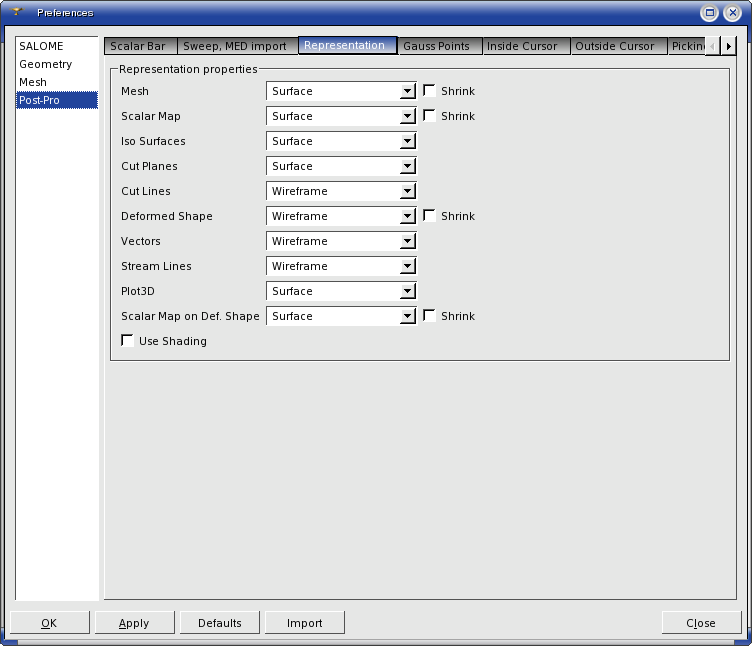
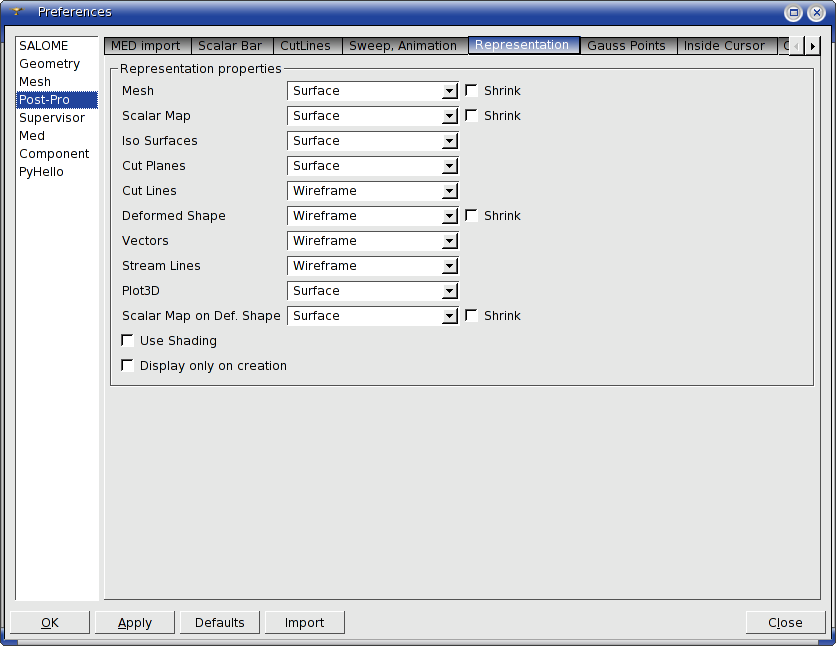
Update documentation for Post-Pro preferences.

diff --git a/doc/salome/gui/GUI/post-pro_preferences.htm b/doc/salome/gui/GUI/post-pro_preferences.htm
@@ -48,7 +48,7 @@
 
 <p>&nbsp;</p>
 
-<p><img src="Pics/ppref1.png"
+<p><img src="pics/ppref1.png"
 		x-maintain-ratio=TRUE
 		style="border: none;
 				width: 752px;
@@ -109,7 +109,7 @@
 
 <p>&nbsp;</p>
 
-<p><img src="Pics/pref31.png"
+<p><img src="pics/pref31.png"
 		x-maintain-ratio=TRUE
 		style="border: none;
 				border-style: none;
@@ -201,7 +201,7 @@
 
 <p style="font-weight: bold;">&nbsp;</p>
 
-<p style="font-weight: bold;"><img src="Pics/ppref2.png"
+<p style="font-weight: bold;"><img src="pics/ppref2.png"
 									x-maintain-ratio=TRUE
 									style="border: none;
 											width: 752px;
@@ -254,7 +254,7 @@
 
 <p style="font-weight: bold;">&nbsp;</p>
 
-<p style="font-weight: normal;"><img src="Pics/ppref3.png"
+<p style="font-weight: normal;"><img src="pics/ppref3.png"
 									x-maintain-ratio=TRUE
 									style="border: none;
 											width: 752px;
@@ -336,16 +336,15 @@
 
 <p style="margin-left: 0px; font-weight: bold;">&nbsp;</p>
 
-<p style="font-weight: bold; margin-left: 0px;"><img src="Pics/pref33.png"
-													x-maintain-ratio=TRUE
-													style="border: none;
-															width: 752px;
-															height: 646px;
-															float: none;
-															border-style: none;"
-													width=752
-													height=646
-													border=0></p>
+<p style="font-weight: bold; margin-left: 0px;"><img src="pics/pref33.png" x-maintain-ratio=TRUE
+						style="border: none;
+						width: 836px;
+						height: 646px;
+						float: none;
+						border-style: none;"
+						width=836
+						height=646
+						border=0></p>
 
 <p style="font-weight: bold; margin-left: 0px;">&nbsp;</p>
 
@@ -358,8 +357,13 @@
  style="margin-left: 40px; text-align: justify;"> </span></p></li>
 	
 	<li class=kadov-p><p style="font-weight: bold; margin-left: 38px;">Use 
- Shading - <span style="font-weight: normal;">when this</span> <span style="font-weight: normal;">option 
+ Shading - <span style="font-weight: normal;">when this option 
  is checked, the objects will be displayed with shading.</span></p></li>
+	
+	<li class=kadov-p><p style="font-weight: bold; margin-left: 38px;">Display only
+ on creation - <span style="font-weight: normal;">when this option 
+ is checked, the newly created presentation will be displayed in a viewer alone,
+ i.e. all other presentations will be erased together with their scalar bars.</span></p></li>
 </ul>
 
 <p style="font-weight: bold; margin-left: 0px;">&nbsp;</p>
@@ -370,7 +374,7 @@
 
 <p style="font-weight: bold; margin-left: 36px;">&nbsp;</p>
 
-<p style="font-weight: bold; margin-left: 0px;"><img src="Pics/pref34.png"
+<p style="font-weight: bold; margin-left: 0px;"><img src="pics/pref34.png"
 													x-maintain-ratio=TRUE
 													style="border: none;
 															border-style: none;
@@ -594,7 +598,7 @@
 
 <p style="text-align: justify;
 			font-weight: bold;
-			margin-left: 0px;"><img src="Pics/pref37.png"
+			margin-left: 0px;"><img src="pics/pref37.png"
 									x-maintain-ratio=TRUE
 									style="border: none;
 											border-style: none;
@@ -666,7 +670,7 @@
 
 <p style="text-align: justify;
 			font-weight: bold;
-			margin-left: 0px;"><img src="Pics/pref38.png"
+			margin-left: 0px;"><img src="pics/pref38.png"
 									x-maintain-ratio=TRUE
 									style="border: none;
 											border-style: none;
@@ -800,7 +804,7 @@
 
 <p style="text-align: justify;
 			font-weight: bold;
-			margin-left: 0px;"><img src="Pics/pref39.png"
+			margin-left: 0px;"><img src="pics/pref39.png"
 									x-maintain-ratio=TRUE
 									style="border: none;
 											border-style: none;
